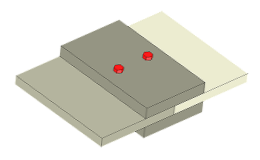
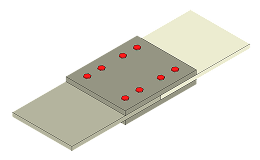
Updated butt join module img

diff --git a/src/osdag_gui/data/ui_data.py b/src/osdag_gui/data/ui_data.py
@@ -106,7 +106,7 @@ class Data:
             ":/vectors/info_default.svg",
             ":/vectors/info_hover.svg",
             "   Info",
-            ["About Osdag", "Ask Us a Question", "Check For Update"]
+            ["About Osdag", "Ask Us a Question", "Check for Update"]
         ),
         (
             ":/vectors/resources_default.svg",